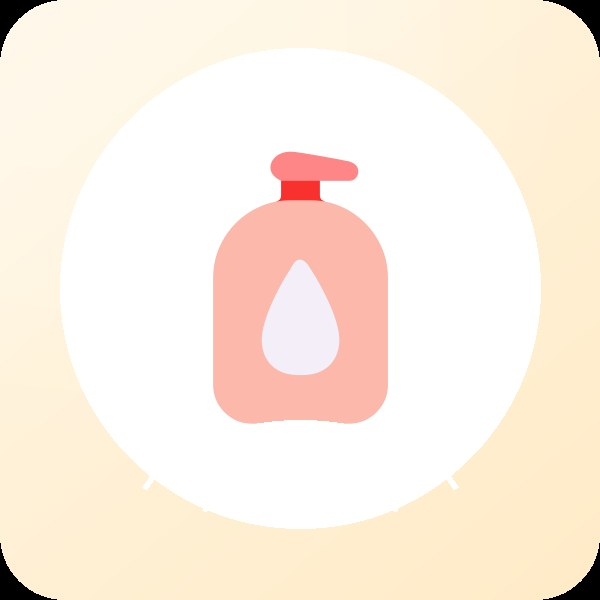
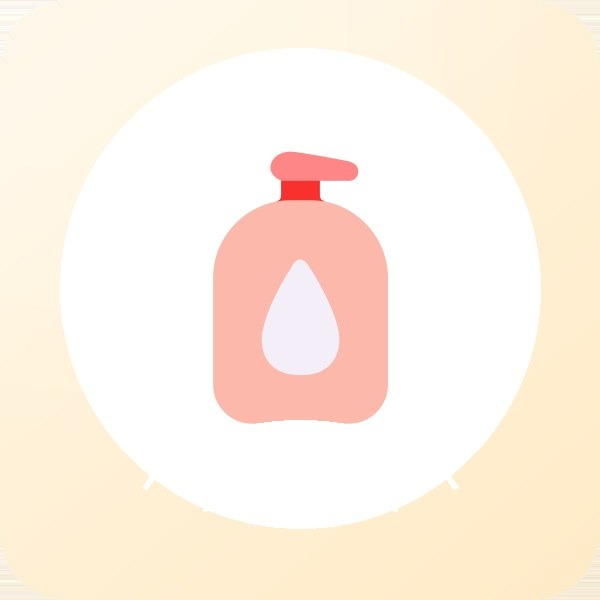
R68：分类「└」残留符号 + 商品图四角黑边 —— 两端一致性修复
① 分类「└」不是乱码、不在数据里：数据库 t_category.name 逐条核对为干净值，
   是 Search.tsx:145 写死的树形前缀 {cat.depth > 0 ? `└ ${cat.name}` : cat.name}
   —— 在平铺筛选行里表达父子层级，用户视角就是残留符号。已去掉前缀，只显示 cat.name。

② 商品图黑边在图片文件里，不是 CSS：R67 从小程序拷来的 12 张 JPG 实测 600×600、
   四角纯黑 (0,0,0)、黑区沿边侵入 56px —— 原图是「圆角卡片贴在黑底上导出」的产物
   （带透明通道的源图转 JPG 时透明被填黑）。两端共用同一份文件，小程序同样有黑角；
   object-fit 修不了「内容里自带的黑」。

   修法：逐行扫描黑区（亮度<40），用行内最近有效色横向插值填充（背景为平滑渐变，不留痕），
   每张约 3604 像素；修完同步回 miniprogram/images/products/，
   md5 比对两端 12/12 逐字节一致 —— 图源修一次，两端同时干净。

验证：/search 页「└」已消失、chip 文本为纯分类名、裂图 0；home 套件 9/0（含零裂图断言）。
改动位置：frontend/src/pages/Search.tsx（1 行）；
frontend/public/img/products/ 与 miniprogram/images/products/ 的 12 张图（两端同步）。

diff --git a/frontend/src/pages/Search.tsx b/frontend/src/pages/Search.tsx
@@ -142,7 +142,7 @@ export const SearchPage: React.FC = () => {
                 onClick={() => patch({ categoryId: String(cat.id) })}
                 type="button"
               >
-                {cat.depth > 0 ? `└ ${cat.name}` : cat.name}
+                {cat.name}
               </button>
             ))}
           </div>

diff --git a/docs/PLAN.md b/docs/PLAN.md
@@ -204,6 +204,29 @@
 
 ## 6. 本轮变更记录
 
+### 2026-10-05（第六十八轮 · 分类「└」残留符号 + 商品图四角黑边：两端一致性修复）
+
+> 用户报障两点：① 分类筛选里出现「└」疑似乱码；② 商品图与容器不贴合、四周有黑边（要求两端一并修）。
+
+**① 「└」的来源：前端写死的树形前缀，不是乱码、更不在数据里。**
+数据库 `t_category.name` 逐条核对为干净值（宠物主粮 / 猫主粮 / …）；
+`Search.tsx:145` 写死了 `{cat.depth > 0 ? \`└ ${cat.name}\` : cat.name}` ——
+用「└」在**平铺的筛选行**里表达父子层级。用户视角这就是乱码，且筛选行本就按「父在前、子随后」排序，前缀没有信息增量。
+**修**：去掉前缀，只显示 `cat.name`。
+
+**② 图片黑边的来源：图源文件本身 defective，不是 CSS。**
+R67 从小程序拷来的 12 张 JPG，实测 600×600、**四角纯黑 (0,0,0)**、黑区沿边侵入 56px ——
+原图是「圆角卡片贴在黑底上导出」的产物（多半由带透明通道的源图转 JPG 时透明被填黑）。
+两端共用同一份文件，所以小程序同样有黑角；CSS 的 `object-fit` 修不了「内容里自带的黑」。
+**修**：逐行扫描找黑区（亮度<40），用**行内最近有效色横向插值**填充（背景是平滑渐变，插值不留痕），
+每张约 3604 像素；**修完同步回小程序**（`miniprogram/images/products/`），
+md5 比对两端 **12/12 逐字节一致** —— 图源修一次，两端同时干净。
+
+**验证**：`/search` 页「└」已消失、chip 文本为纯分类名、裂图 0；home 套件 9/0（含零裂图断言）。
+
+**改动位置**：`frontend/src/pages/Search.tsx`（去前缀，1 行）；
+`frontend/public/img/products/p01..p12.jpg` 与 `miniprogram/images/products/p01..p12.jpg`（图源修复，两端同步）。
+
 ### 2026-10-05（第六十六轮 · 图表体系重建 + A 方案）
 
 > 用户四项要求：① 悬停即时（原 2–3 秒）；② 换主流图表组件；③ 状态分布扩成多维度；
